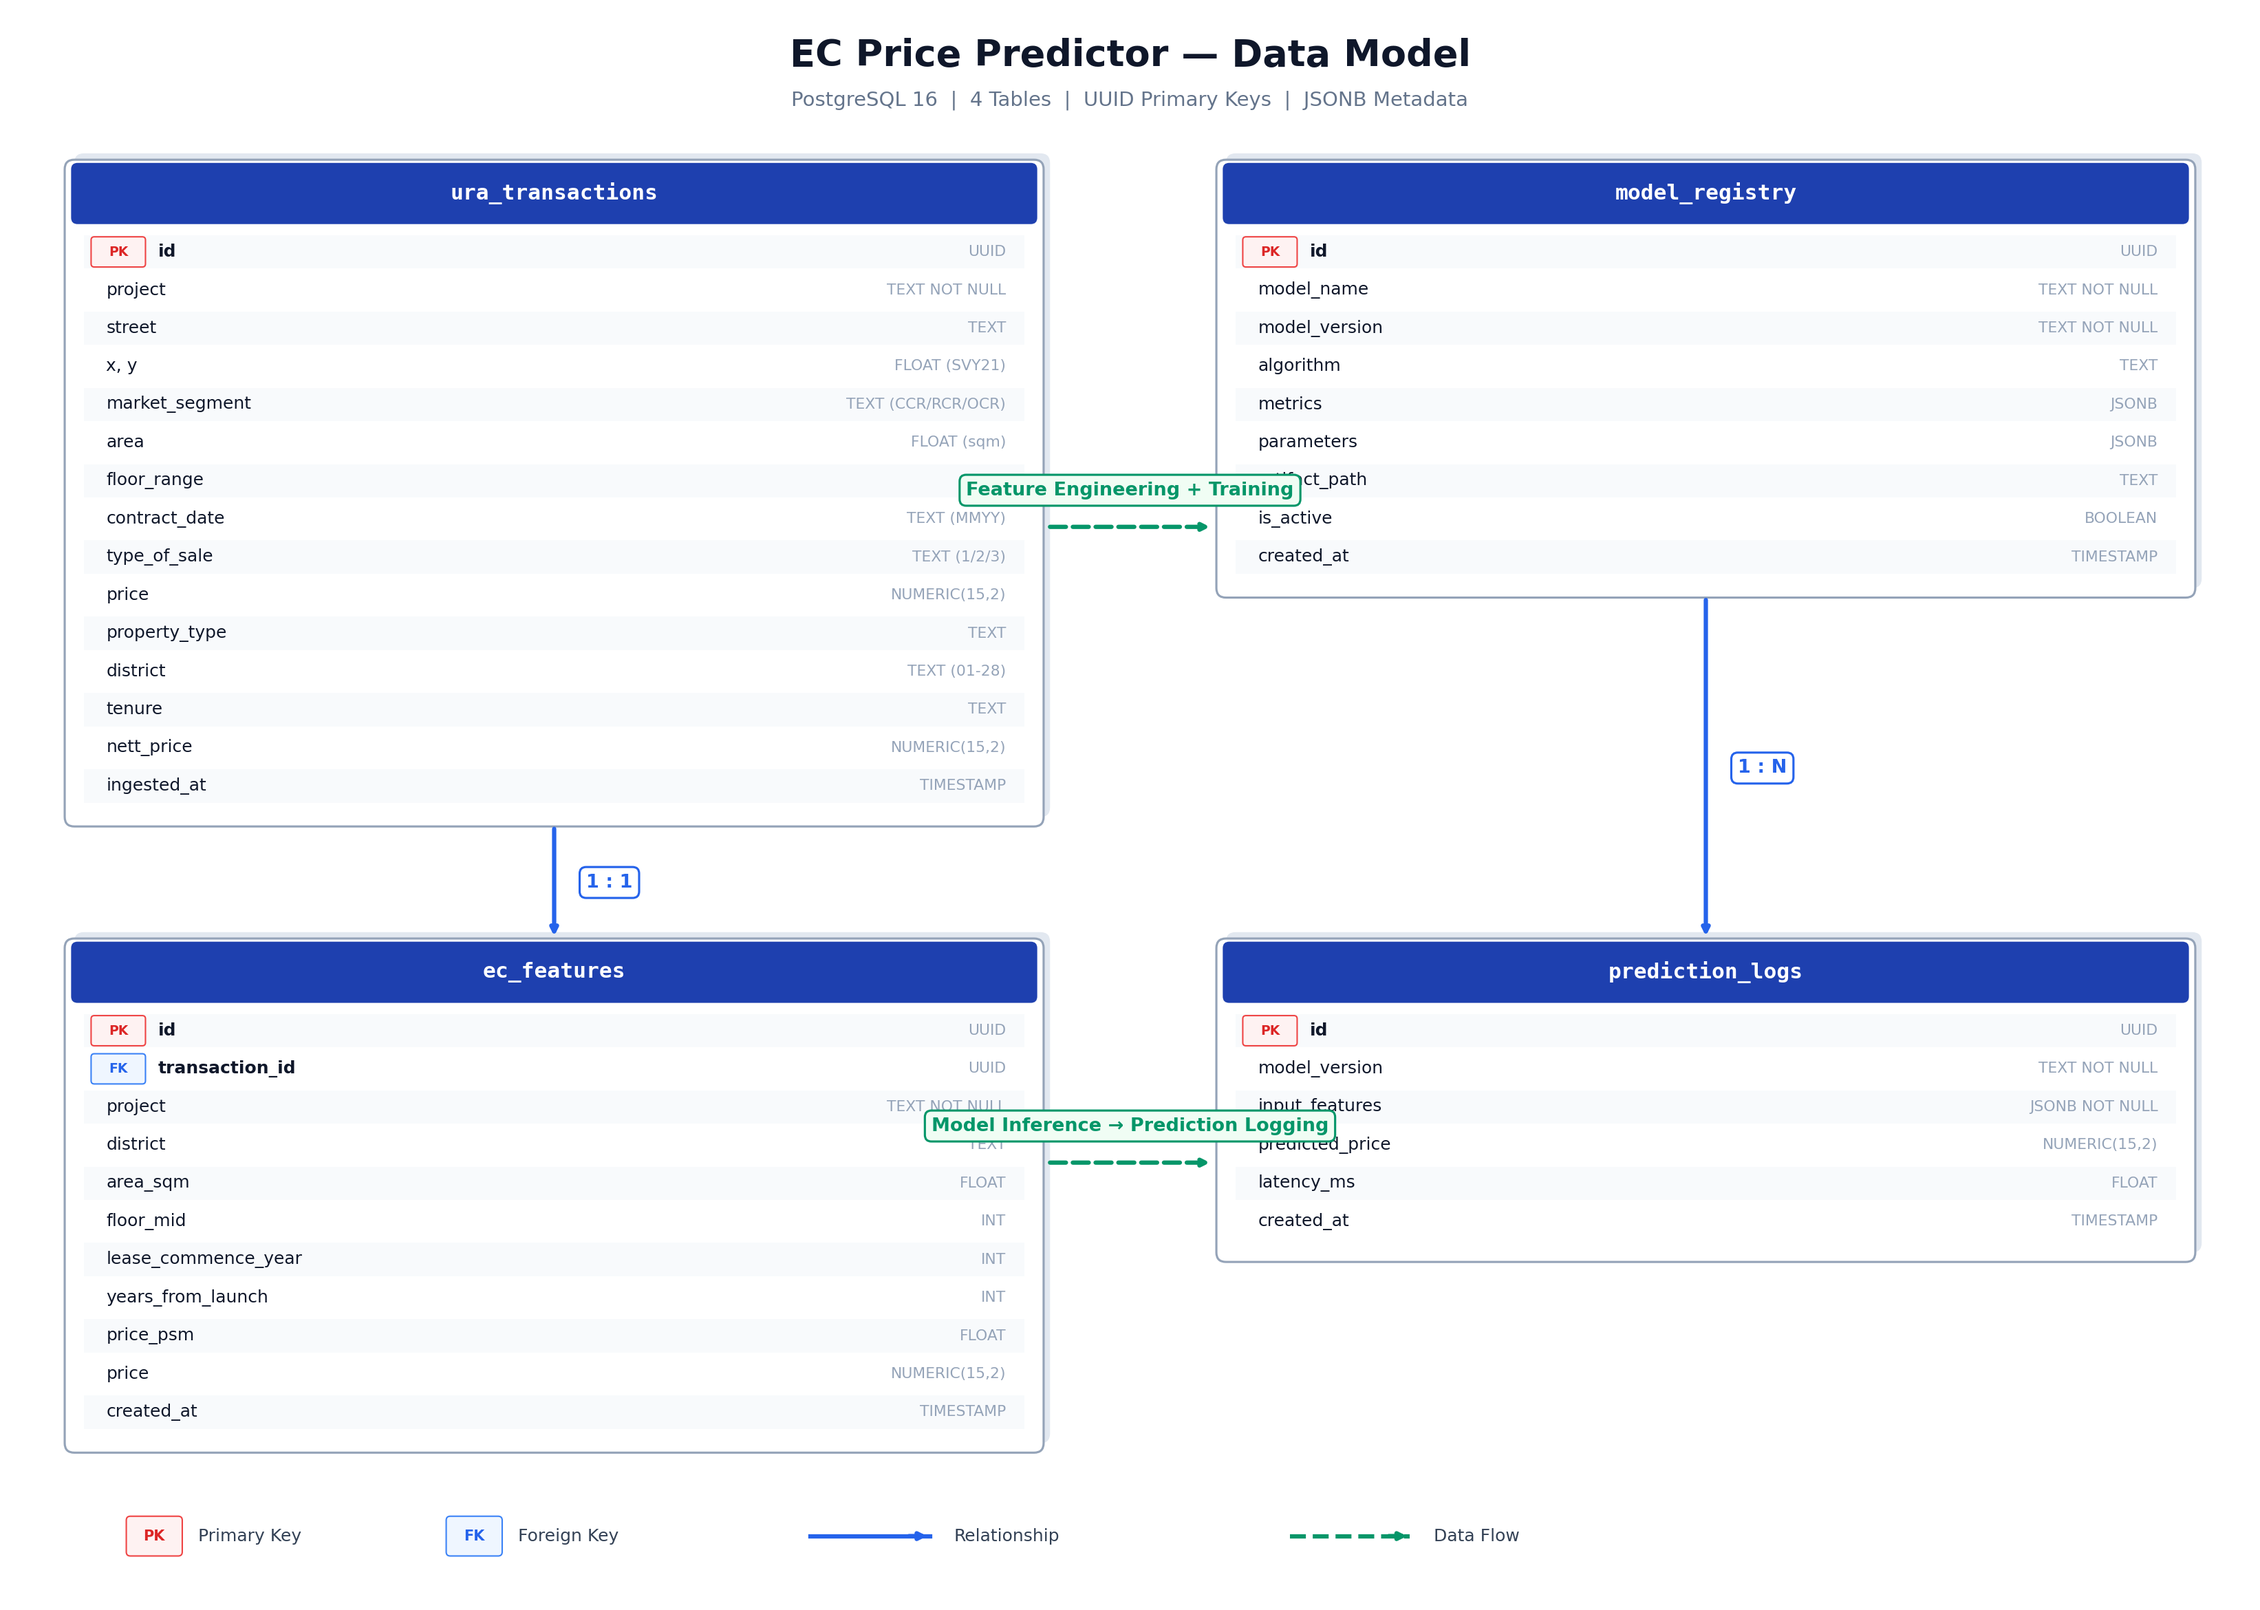
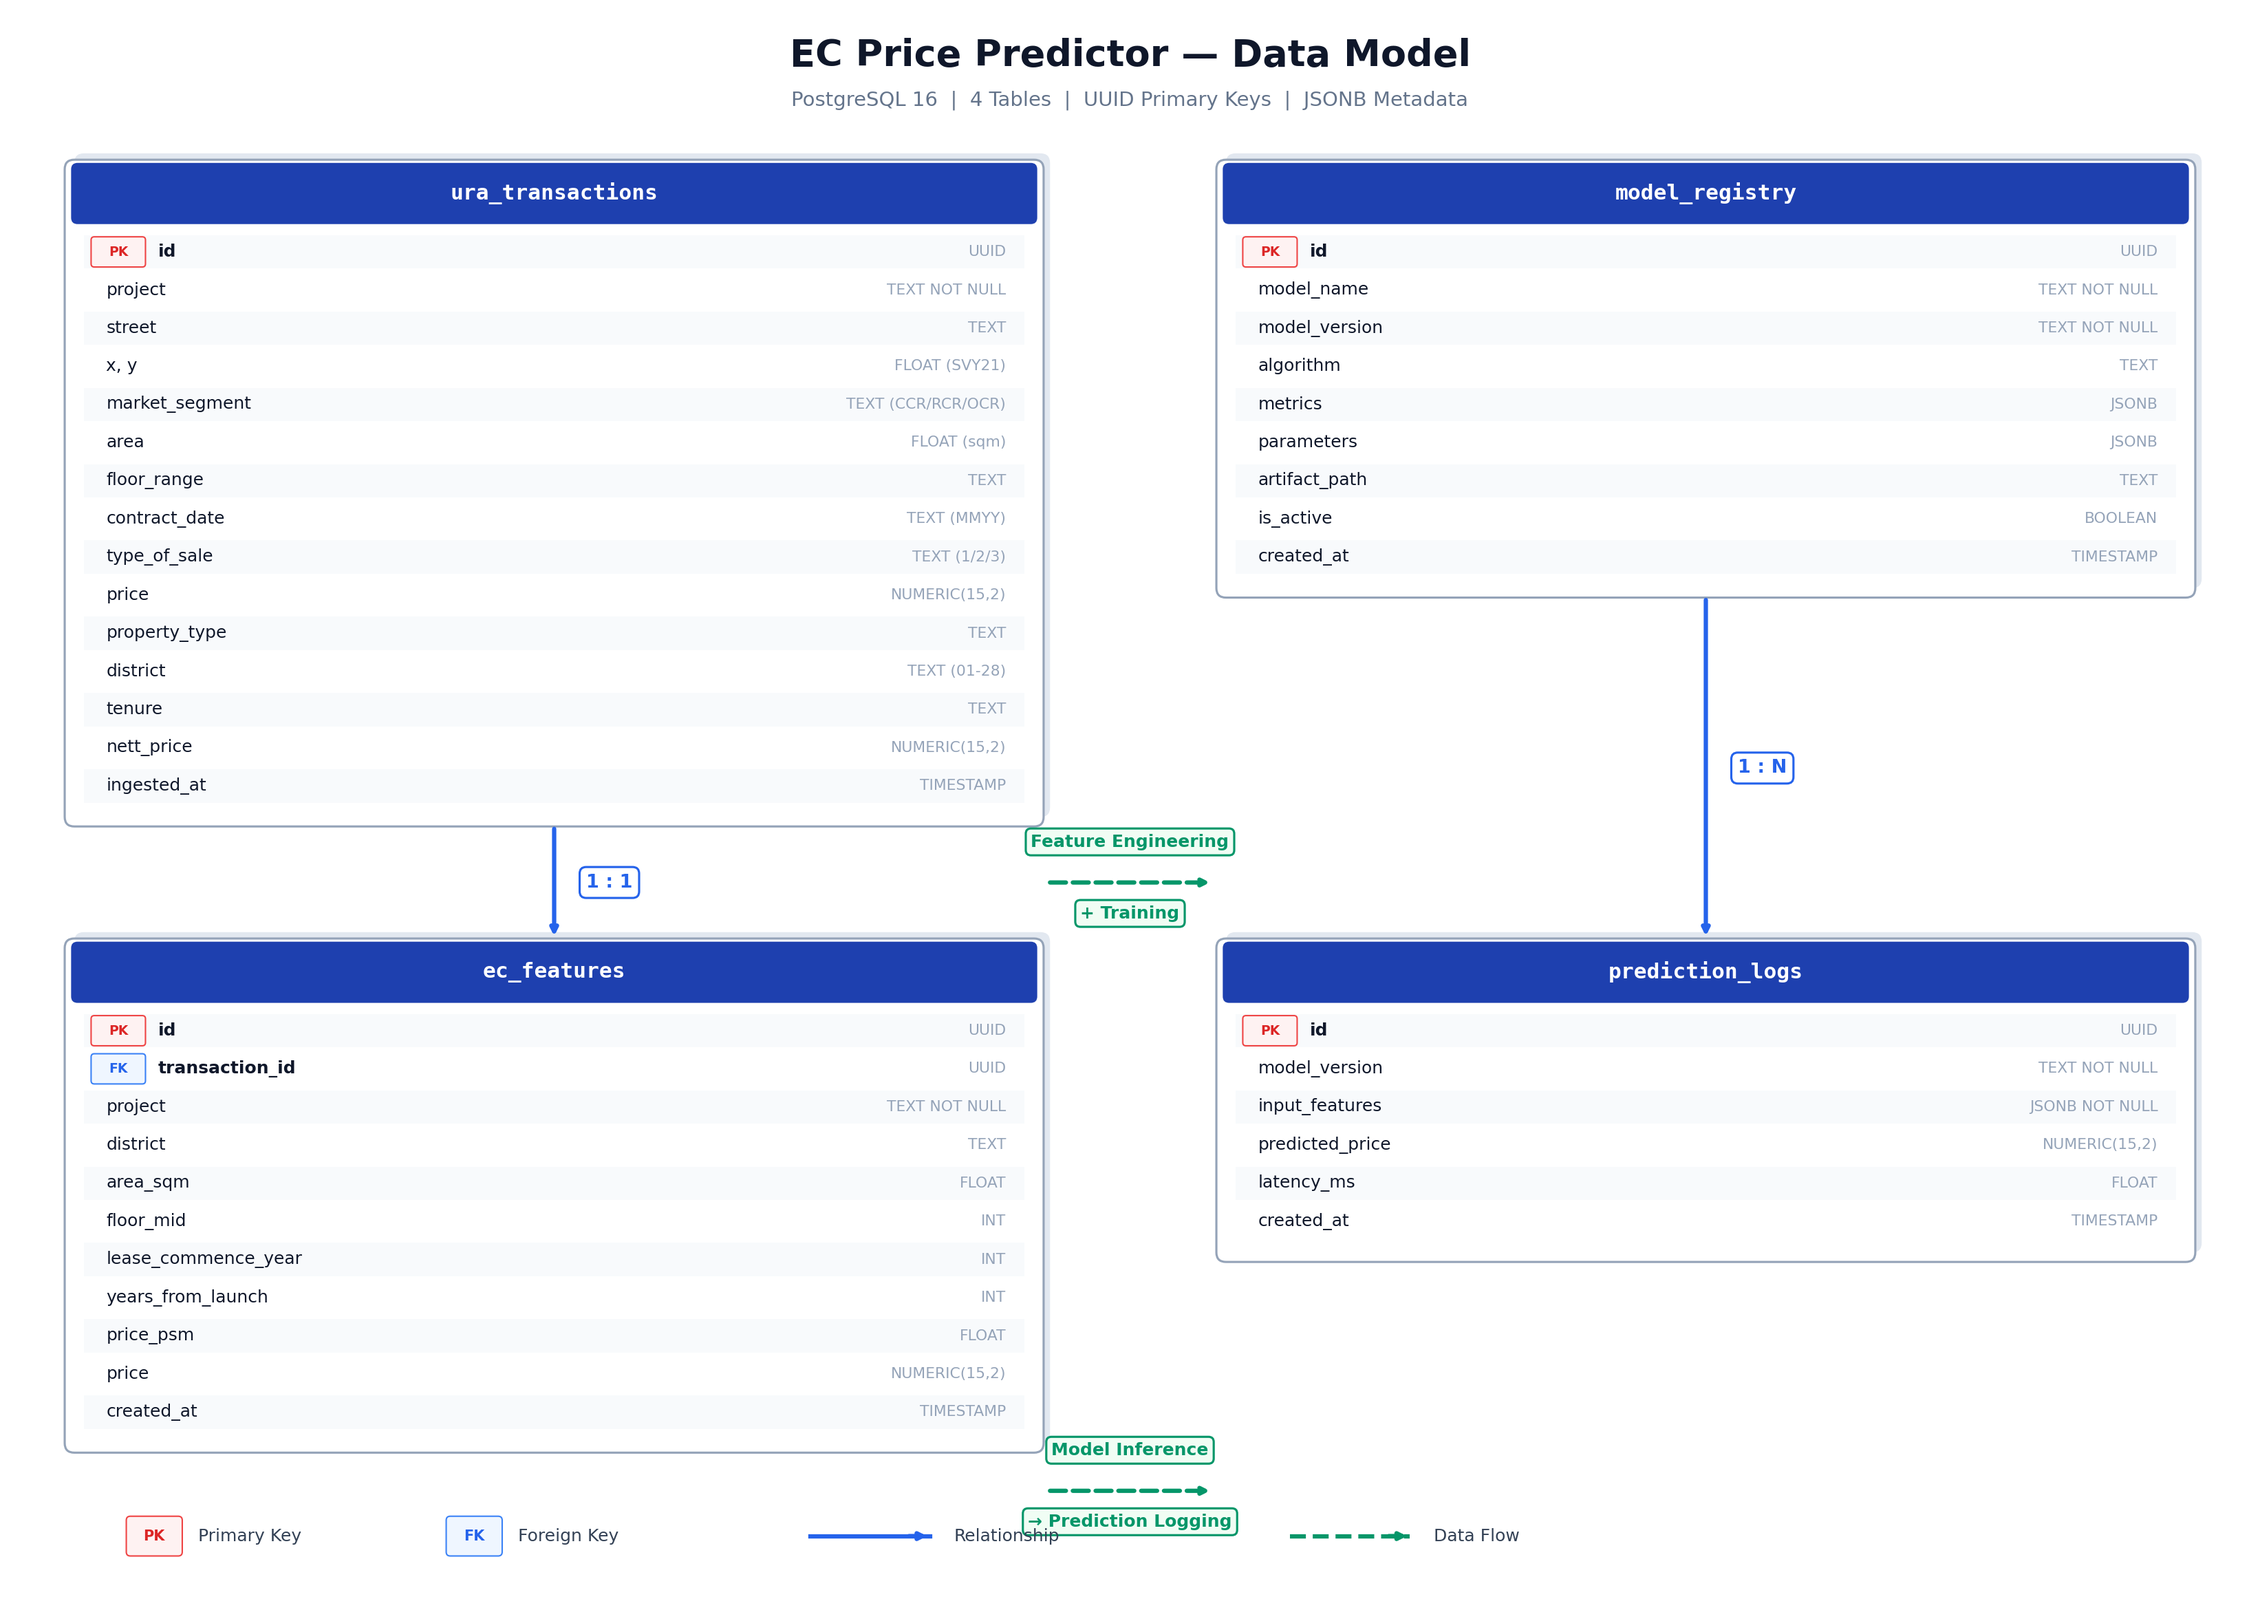
Fix data model diagram — route flow labels through gaps, no overlaps

diff --git a/docs/data_model_diagram.py b/docs/data_model_diagram.py
@@ -164,21 +164,30 @@ ax.text(mid_x2 + 0.4, (gap2_top + gap2_bot) / 2, "1 : N",
         fontsize=13, color="#2563eb", fontweight="bold", va="center",
         bbox=dict(facecolor="white", edgecolor="#2563eb", boxstyle="round,pad=0.35", linewidth=1.5))
 
-# ── DATA FLOW (horizontal dashed) ──
+# ── DATA FLOW (horizontal dashed, routed through the gap between columns) ──
 
-flow_y1 = 13.5
+# Top flow: goes above both table pairs in the gap row
+flow_y1 = (y1b + y2t) / 2  # middle of the vertical gap between top and bottom tables
+mid_gap_x = (x1r + x3l) / 2
 ax.annotate("", xy=(x3l - 0.2, flow_y1), xytext=(x1r + 0.2, flow_y1),
             arrowprops=dict(arrowstyle="-|>", color="#059669", lw=3, linestyle="--", shrinkA=0, shrinkB=0))
-ax.text((x1r + x3l) / 2, flow_y1 + 0.4, "Feature Engineering + Training",
-        ha="center", fontsize=13, color="#059669", fontweight="bold",
-        bbox=dict(facecolor="#f0fdf4", edgecolor="#059669", boxstyle="round,pad=0.35", linewidth=1.5))
+ax.text(mid_gap_x, flow_y1 + 0.45, "Feature Engineering",
+        ha="center", fontsize=12, color="#059669", fontweight="bold",
+        bbox=dict(facecolor="#f0fdf4", edgecolor="#059669", boxstyle="round,pad=0.3", linewidth=1.5))
+ax.text(mid_gap_x, flow_y1 - 0.45, "+ Training",
+        ha="center", fontsize=12, color="#059669", fontweight="bold",
+        bbox=dict(facecolor="#f0fdf4", edgecolor="#059669", boxstyle="round,pad=0.3", linewidth=1.5))
 
-flow_y2 = 5.5
+# Bottom flow: below ec_features and prediction_logs
+flow_y2 = min(y2b, y4b) - 0.6
 ax.annotate("", xy=(x4l - 0.2, flow_y2), xytext=(x2r + 0.2, flow_y2),
             arrowprops=dict(arrowstyle="-|>", color="#059669", lw=3, linestyle="--", shrinkA=0, shrinkB=0))
-ax.text((x2r + x4l) / 2, flow_y2 + 0.4, "Model Inference → Prediction Logging",
-        ha="center", fontsize=13, color="#059669", fontweight="bold",
-        bbox=dict(facecolor="#f0fdf4", edgecolor="#059669", boxstyle="round,pad=0.35", linewidth=1.5))
+ax.text(mid_gap_x, flow_y2 + 0.45, "Model Inference",
+        ha="center", fontsize=12, color="#059669", fontweight="bold",
+        bbox=dict(facecolor="#f0fdf4", edgecolor="#059669", boxstyle="round,pad=0.3", linewidth=1.5))
+ax.text(mid_gap_x, flow_y2 - 0.45, "→ Prediction Logging",
+        ha="center", fontsize=12, color="#059669", fontweight="bold",
+        bbox=dict(facecolor="#f0fdf4", edgecolor="#059669", boxstyle="round,pad=0.3", linewidth=1.5))
 
 # ── LEGEND ──
 ly = 0.8
